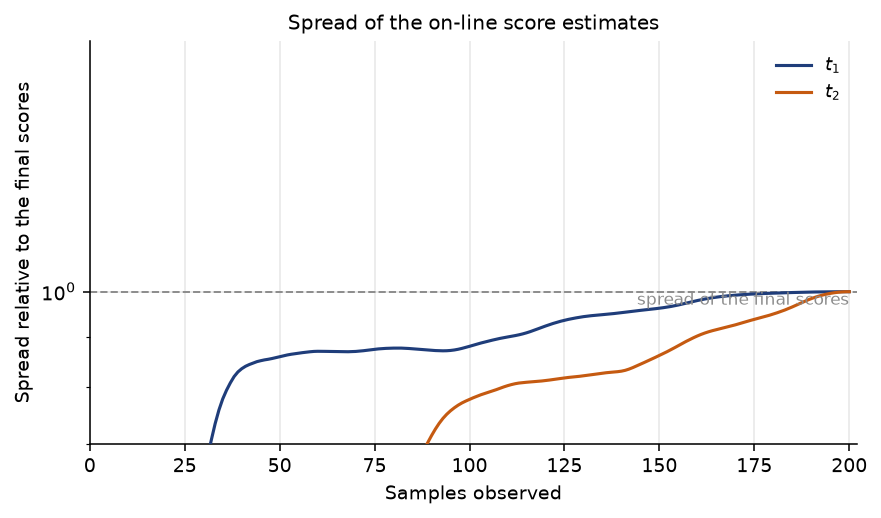
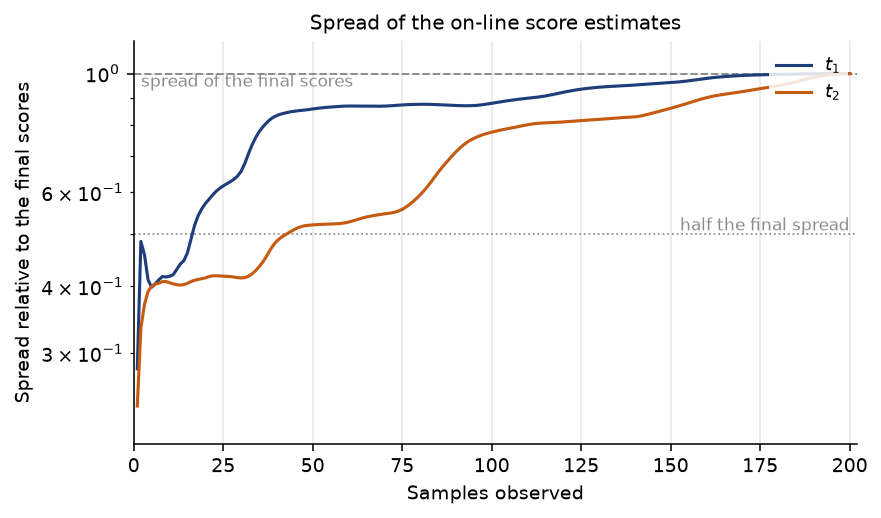
Show the whole score-spread curve, and mark half the final spread
Two faults in the same figure, both from the corrected score estimator in
process-improve 1.87.0.

The y-limits were a fixed floor of 0.7 with the top taken from the data.
The estimator now shrinks the scores toward the average batch while little
has been observed, so the spread runs from 0.24 up to 1.0 rather than from
far above 1 down to it. The floor cut off everything below 0.7, which is
where the shrinkage is strongest, and the curves appeared to begin in mid
air at samples 32 and 90. The bottom now comes from the data.

With the curves running between two ends rather than to one, a single
reference at the final spread says only where they arrive. A second at half
the final spread says where each component gets halfway: sample 17 for the
first, 43 for the second. The label for the upper line moves to the left,
where the curves are low, so it no longer sits under the legend.

Claude-Session: https://claude.ai/code/session_01LXthGpHLQFfGubBiKFtGAE

diff --git a/batch/batch-case-sbr-figures.py b/batch/batch-case-sbr-figures.py
@@ -345,10 +345,19 @@ def main(out_dir: pathlib.Path, data_url: str | None) -> None:
     for a, colour in enumerate((DARK_BLUE, ORANGE)):
         ax.plot(samples, spread[:, a], color=colour, lw=1.6, label=f"$t_{a + 1}$", zorder=3)
     ax.axhline(1.0, color=GREY, lw=1, ls="--", zorder=2)
-    ax.text(0.99, 1.0, "spread of the final scores", transform=ax.get_yaxis_transform(), ha="right", va="top",
+    # On the left, where the curves are still low: the legend sits at the upper right.
+    ax.text(0.01, 1.0, "spread of the final scores", transform=ax.get_yaxis_transform(), ha="left", va="top",
+            fontsize=8.5, color=GREY)
+    # A second reference between the two ends, so the reader can see where each component gets
+    # halfway back to its final spread rather than only where it arrives.
+    ax.axhline(0.5, color=GREY, lw=0.9, ls=":", zorder=2)
+    ax.text(0.99, 0.5, "half the final spread", transform=ax.get_yaxis_transform(), ha="right", va="bottom",
             fontsize=8.5, color=GREY)
     ax.set_yscale("log")
-    ax.set_ylim(0.7, float(spread.max()) * 1.8)   # the estimates are widest a few samples in, so let the data set the top
+    # The estimator shrinks the scores toward the average batch while little has been observed, so the
+    # spread starts well below the final one and grows to it. Let the data set the bottom of the axis:
+    # a fixed floor clipped the first samples, which are where the shrinkage is strongest.
+    ax.set_ylim(float(spread.min()) * 0.85, 1.15)
     ax.set_xlim(0, reference.n_timesteps_ + 2)
     ax.set_xlabel("Samples observed")
     ax.set_ylabel("Spread relative to the final scores")
